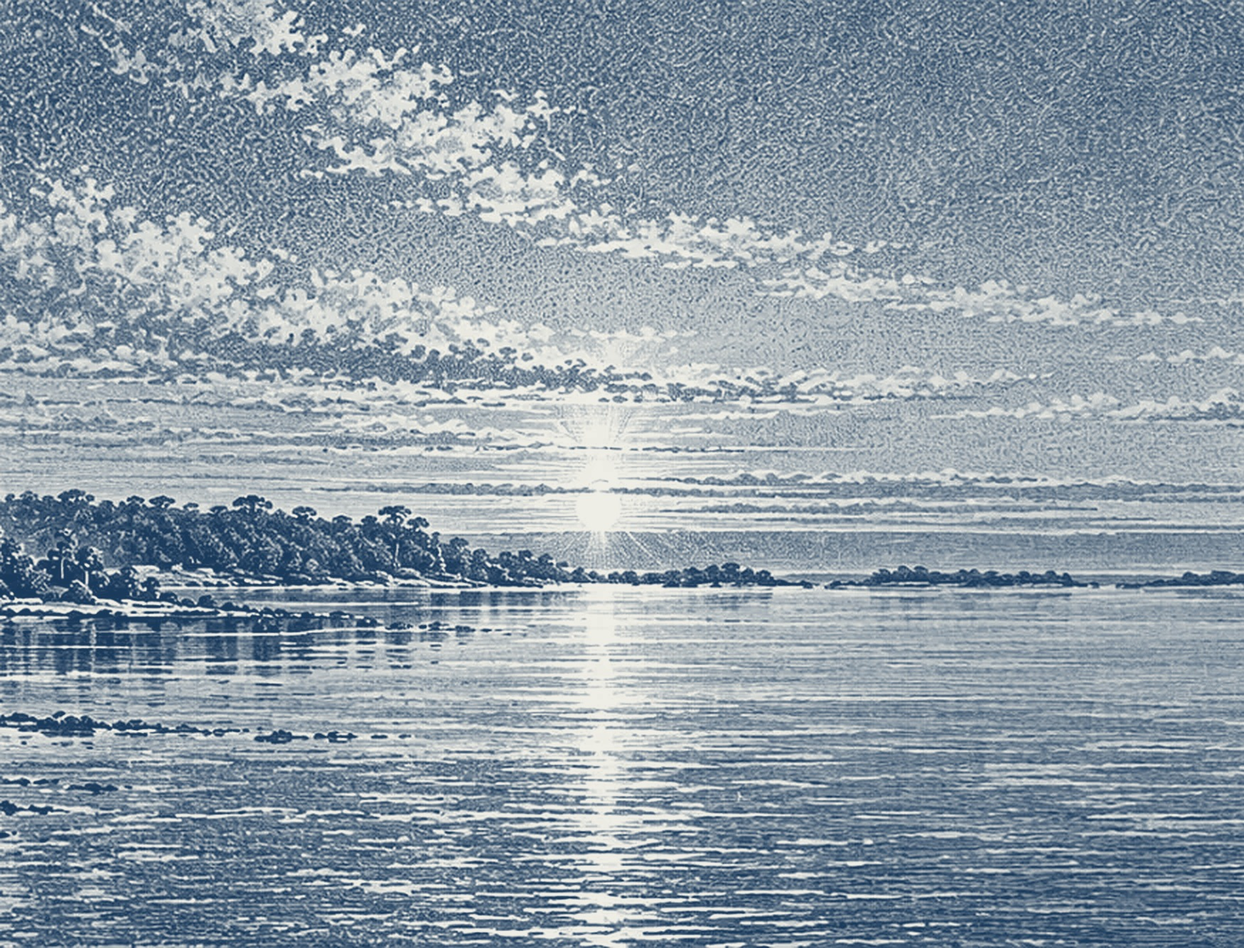
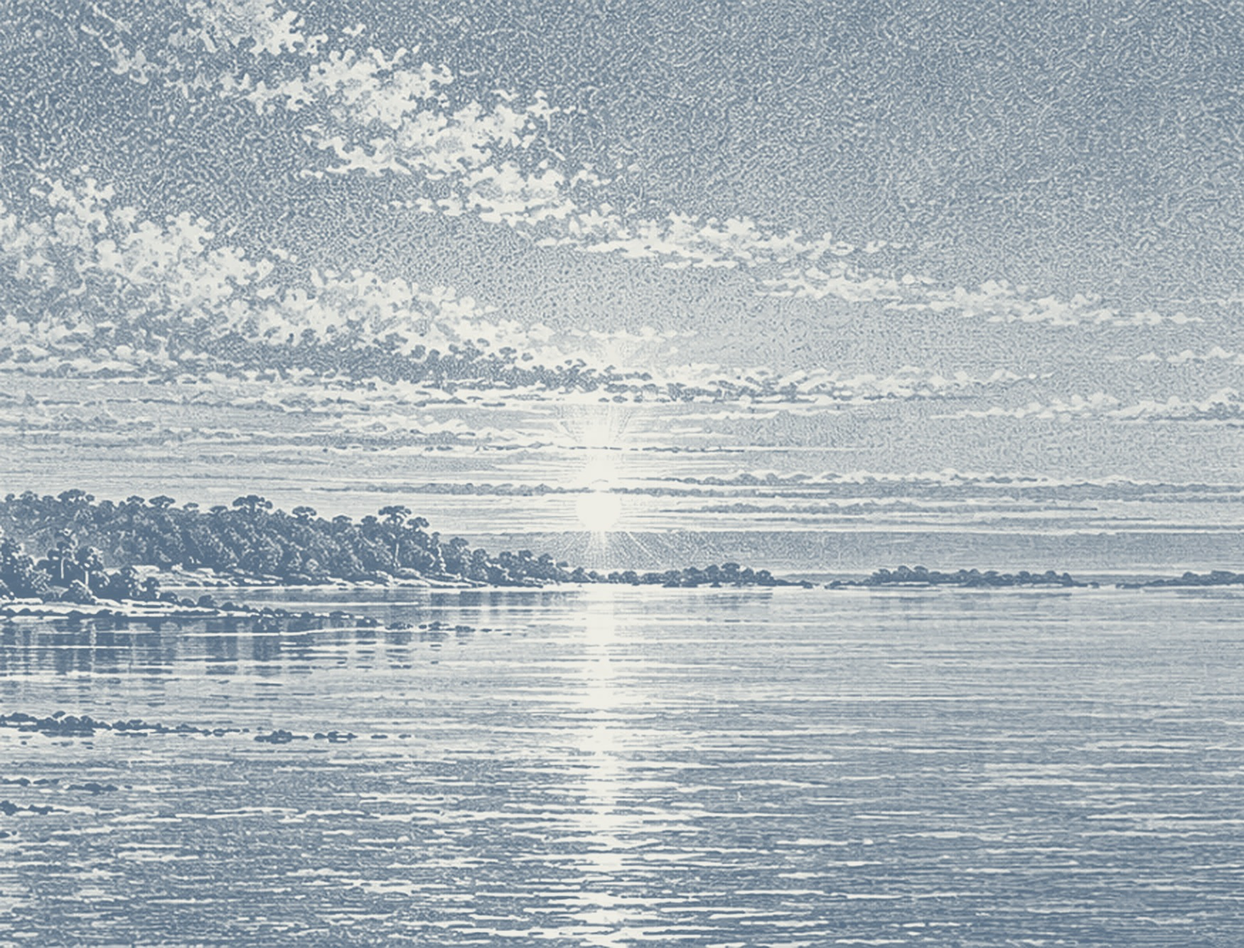
010–011: imagen de respiro más tenue (30 % hacia el papel)

diff --git a/index.html b/index.html
@@ -417,12 +417,12 @@
 <div class="spread"><!-- 010 · Doble de respiro antes de la parada 01 (corrección de la profesora, 26 oct. 2026): una sola imagen a sangre
      en las dos páginas, sin texto ni folio. Ilustración generada con ChatGPT; la prepara tools/laminas.py. -->
 <section class="page page--left" id="p010" data-page="010" lang="es">
-  <div class="respiro foto" style="background-image:url(assets/images/010-respiro-beagle.jpg?v=7726bcec)" role="img" aria-label="el Beagle fondeado frente a una costa baja y boscosa, al amanecer"></div>
+  <div class="respiro foto" style="background-image:url(assets/images/010-respiro-beagle.jpg?v=826917c8)" role="img" aria-label="el Beagle fondeado frente a una costa baja y boscosa, al amanecer"></div>
 </section>
 <!-- 011 · Doble de respiro antes de la parada 01 (corrección de la profesora, 26 oct. 2026): una sola imagen a sangre
      en las dos páginas, sin texto ni folio. Ilustración generada con ChatGPT; la prepara tools/laminas.py. -->
 <section class="page page--right" id="p011" data-page="011" lang="es">
-  <div class="respiro foto" style="background-image:url(assets/images/011-respiro-beagle.jpg?v=981f1391)" role="img" aria-label="el Beagle fondeado frente a una costa baja y boscosa, al amanecer"></div>
+  <div class="respiro foto" style="background-image:url(assets/images/011-respiro-beagle.jpg?v=42174951)" role="img" aria-label="el Beagle fondeado frente a una costa baja y boscosa, al amanecer"></div>
 </section>
 </div>
 <div class="spread"><!-- 010 · Apertura – Bahía del Buen Suceso — fuente: Darwin_textos_para_maquetar_v2.pdf, entrada 011.

diff --git a/tools/laminas.py b/tools/laminas.py
@@ -123,5 +123,7 @@ w = round(im.height * 420 / 160) // 2 * 2
 x0 = 200
 im = im.crop((x0, 0, x0 + w, im.height))
 im = im.resize((im.width * 2, im.height * 2), Image.LANCZOS).filter(ImageFilter.UnsharpMask(radius=1.6, percent=60, threshold=2))
+# Más tenue (pedido de Patricio, 26 oct. 2026): 30 % de mezcla con el papel, como el «tenue» de tools/fotos.py
+im = im.point(lambda v: round(v + (255 - v) * 0.3))
 guardar(im.crop((0, 0, im.width // 2, im.height)), '010-respiro-beagle', 210)
 guardar(im.crop((im.width // 2, 0, im.width, im.height)), '011-respiro-beagle', 210)

diff --git a/BOOK_PROGRESS.md b/BOOK_PROGRESS.md
@@ -592,3 +592,4 @@ Se reemplazaron los 39 recuadros de imagen pendiente por ilustraciones generadas
 - Referencias visibles actualizadas: índice (008), «páginas 051–059» (052), «páginas 061 y 062» (062), «Mapas 009, 013, 018 y 102» (104).
 - Verificado comparando el PDF anterior y el nuevo página por página: mismo texto salvo números.
 - Respaldo previo: ../_respaldo_antes_de_respiro.zip. Las fichas de campo (FICHAS) citan páginas: sumarles 2 desde la 010.
+- 2026-10-26 · 010–011: imagen de respiro más tenue (pedido de Patricio): 30 % de mezcla con el papel (tools/laminas.py).
